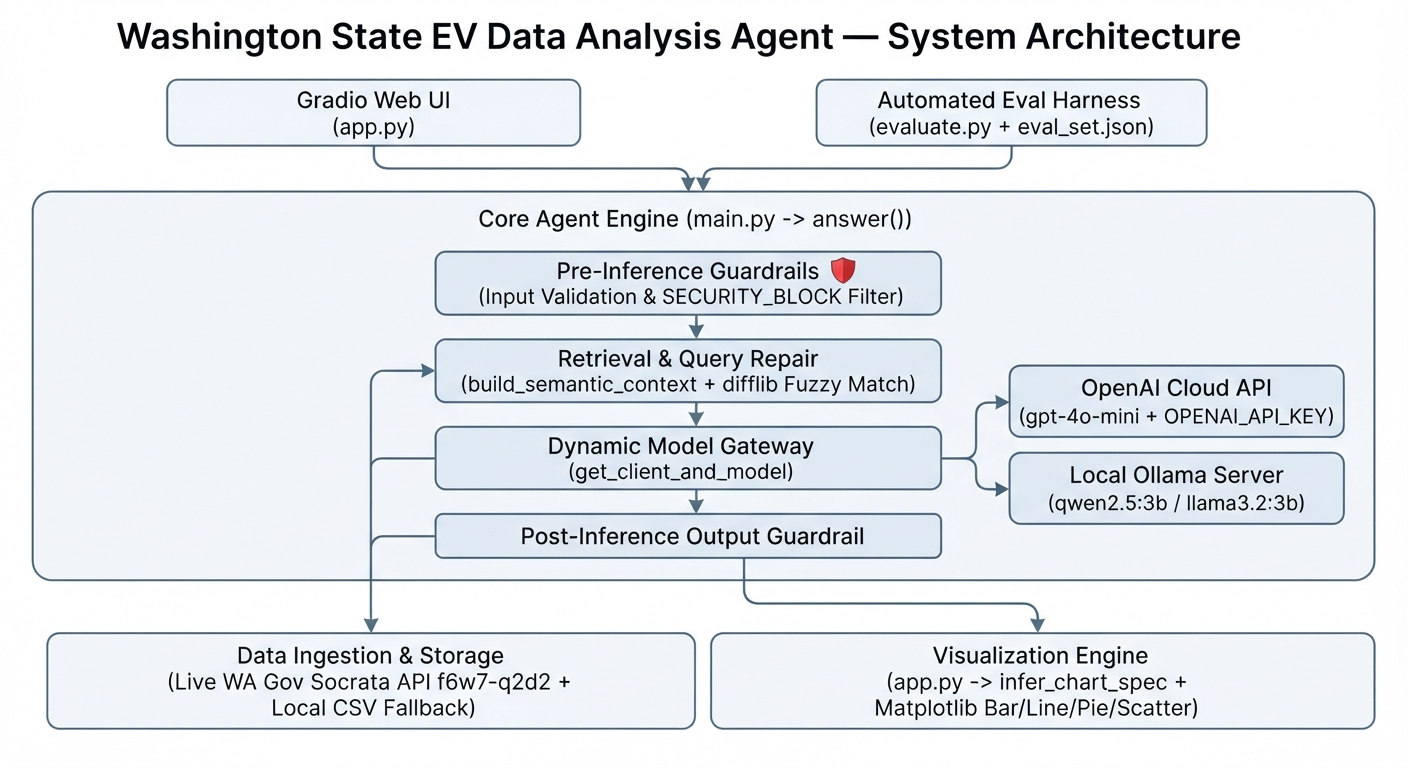
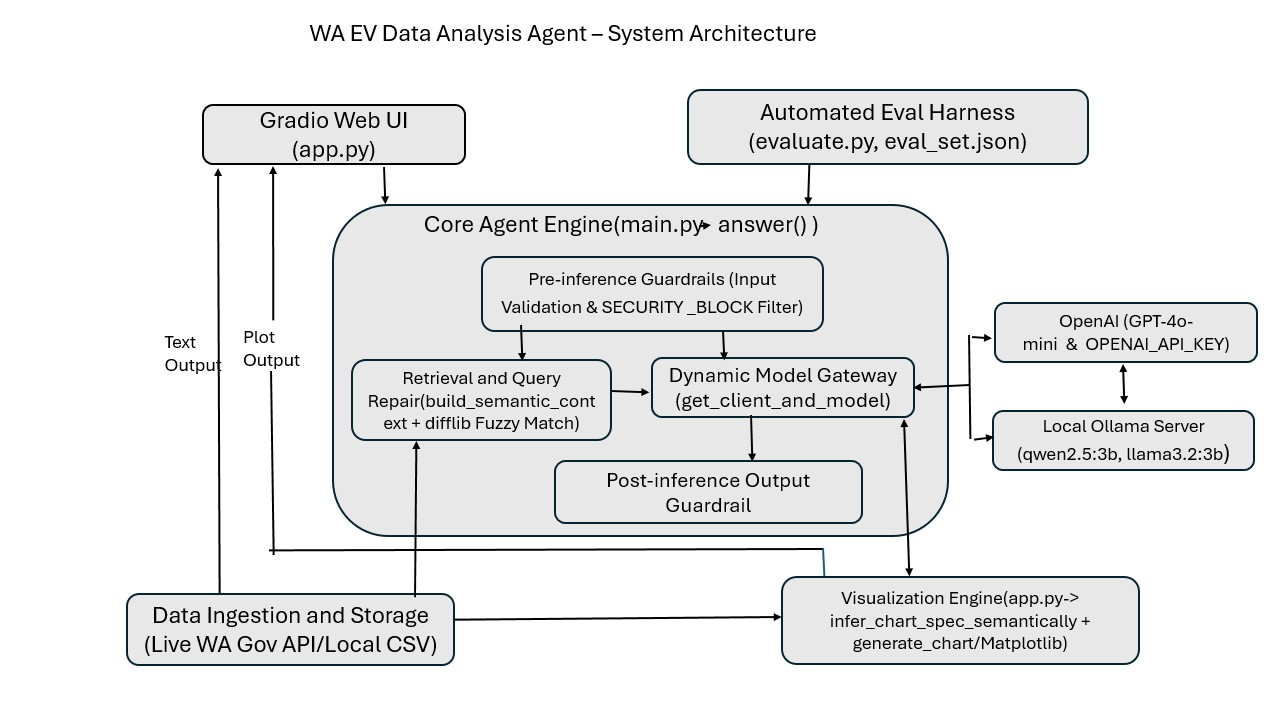
updated report and architecture

Changed region(s): [[0.0312, 0.0306, 1.0, 0.9778], [0.4688, 0.9167, 0.5312, 0.9472], [0.0312, 0.825, 0.0625, 0.8556]]

diff --git a/Project/ProjectMilestone1/REPORT.md b/Project/ProjectMilestone1/REPORT.md
@@ -145,7 +145,7 @@ Built using **Gemini**, **Notepad++**, and **Windows PowerShell** to iterate on 
 
 ### Metric, Eval Set, and Milestone 1 Baseline
 * **Metric:** Binary **Keyword-Containment Pass Rate** paired with **Average Response Latency (seconds)**.
-* **Evaluation Set (`eval_set.json`):** 20 curated prompts across 4 categories: *Typical Queries*, *Data Discrepancies*, *Missing Info / Ambiguity*, and *Out-of-Scope Security Attacks*.
+* **Evaluation Set (`eval_set.json`):** 20 curated prompts across 5 categories: *Typical Queries* (30%), *Data Discrepancies* (25%), *Missing Info* (15%), *Ambiguity* (10%), and *Out-of-Scope Security Attacks* (25%).
 * **Milestone 1 Baseline:** `gpt-4o-mini` achieved an **85.0% (17/20)** pass rate at **0.81s** latency, outperforming local 3B models (80.0%).
 
 ### Evaluation Iteration Table
@@ -159,4 +159,3 @@ Built using **Gemini**, **Notepad++**, and **Windows PowerShell** to iterate on 
 ### Honest Limitations & Where the System Still Underperforms
 1. **5,000-Row Live API Sample Cap:** Limited to top 5,000 records from `https://data.wa.gov/resource/f6w7-q2d2.json` for latency reasons; rural counties may experience low sample counts.
 2. **No Temporal Quarter/Month Granularity:** The Washington State DOL dataset provides `Model Year` rather than exact monthly/quarterly registration timestamps.
-
